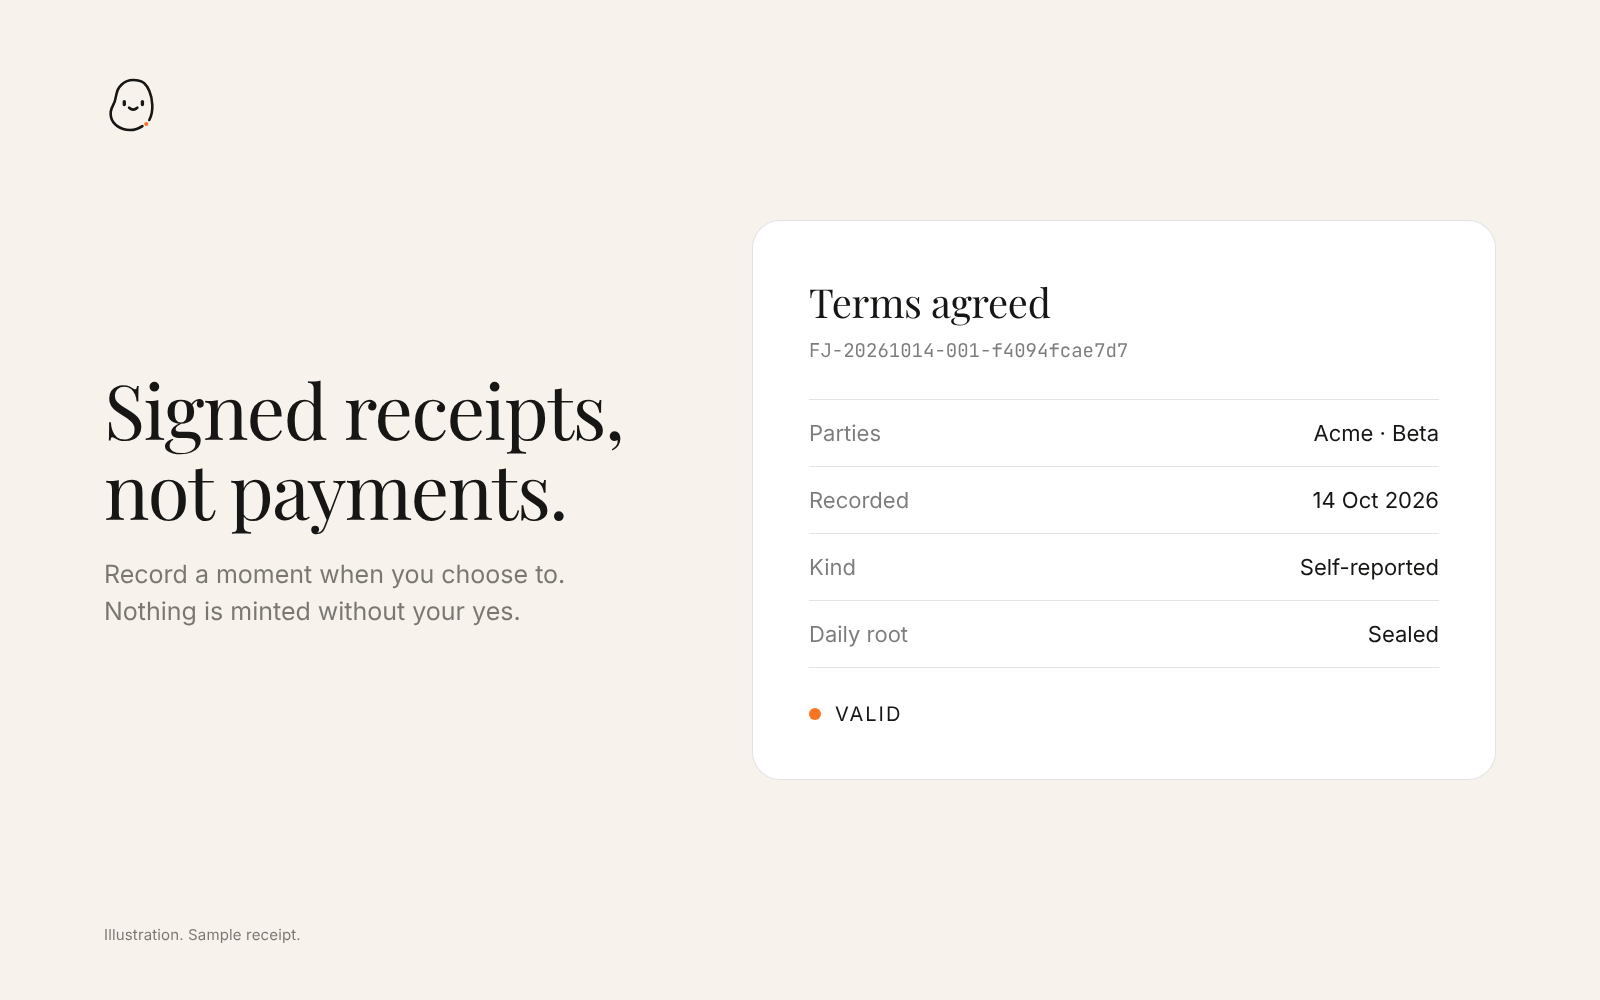
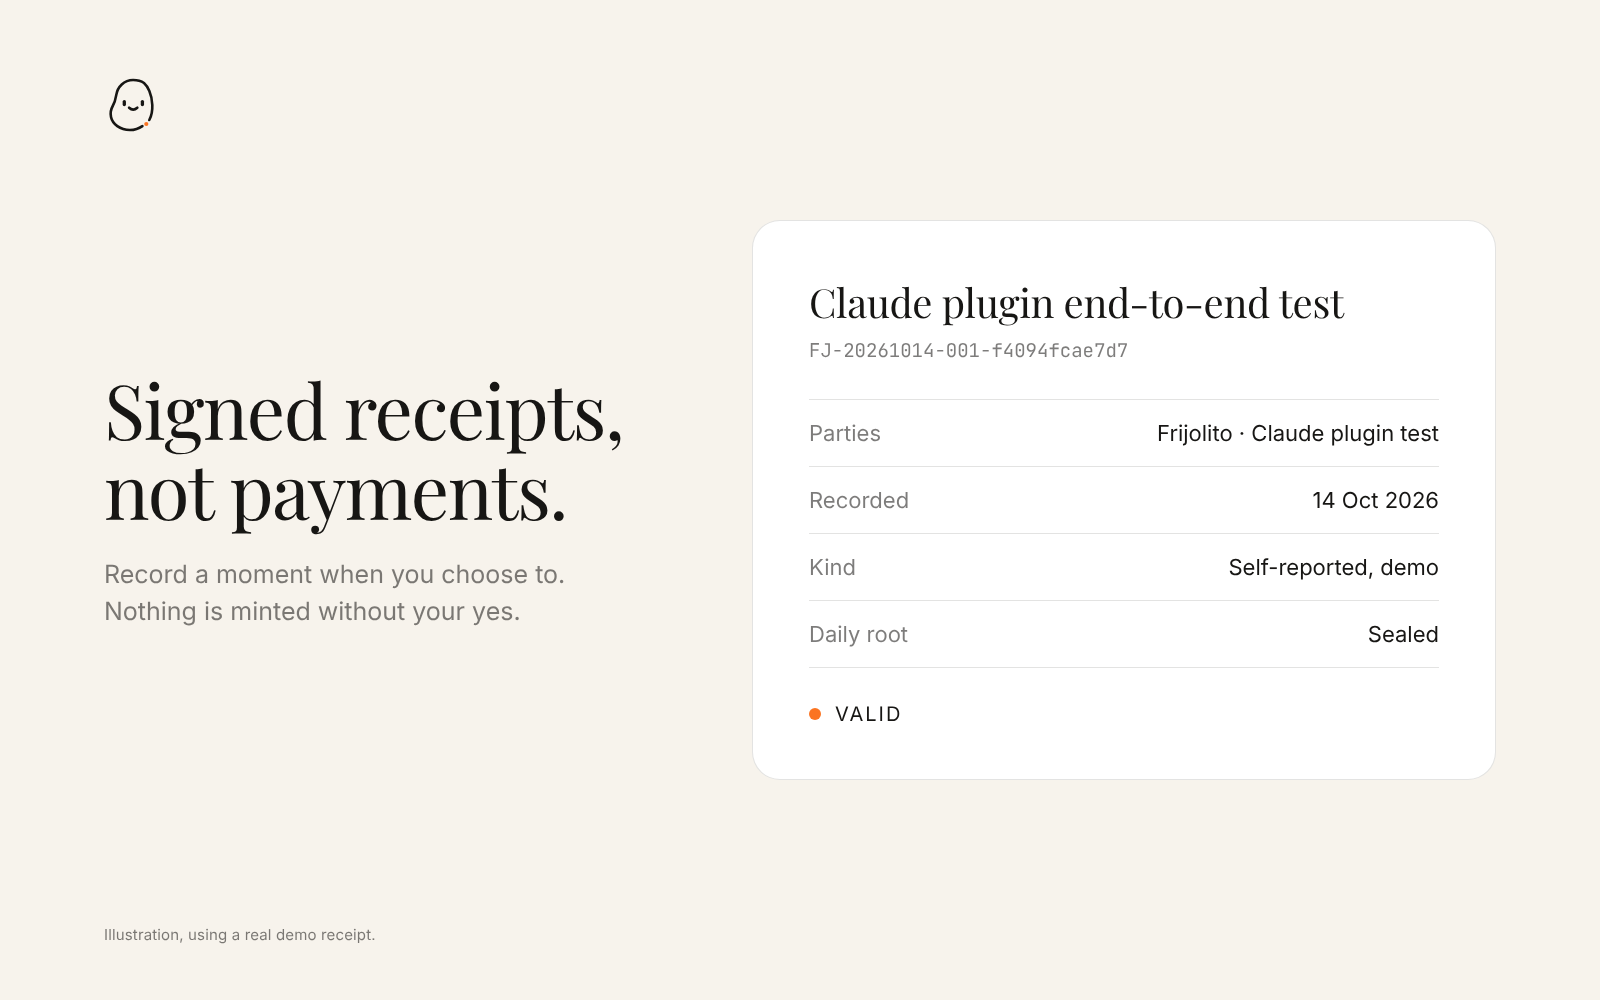
Listing images show the real demo receipt; hook key only goes over https
The sample receipt ID resolves to a real demo receipt, so the images now
show its own label, parties and kind instead of invented ones. The hook
script refuses a base URL that is not https (or this machine, for tests).

Claude-Session: https://claude.ai/code/session_01LbXB6P3xCAoHVUHtBfQp1M

diff --git a/plugins/frijolito/assets/listing/listing.html b/plugins/frijolito/assets/listing/listing.html
@@ -65,9 +65,9 @@
   <div class="term">
     <div class="cmd"><b>/frijolito:verify</b> FJ-20261014-001-f4094fcae7d7</div>
     <div class="ok"><i></i>VALID</div>
-    <div class="say">The record is intact and Frijolito issued it. It is self-reported: it proves what was recorded, by whom and when.</div>
+    <div class="say">The record is intact and Frijolito issued it. It is a self-reported demo receipt: it proves what was recorded, by whom and when.</div>
   </div>
-  <p class="note">Illustration. Sample receipt ID.</p>
+  <p class="note">Illustration, using a real demo receipt.</p>
 </section>
 
 <section class="scene" id="receipt">
@@ -77,17 +77,17 @@
     <p class="sub">Record a moment when you choose to. Nothing is minted without your yes.</p>
   </div>
   <div class="card">
-    <h2>Terms agreed</h2>
+    <h2>Claude plugin end-to-end test</h2>
     <div class="id">FJ-20261014-001-f4094fcae7d7</div>
     <div class="rows">
-      <div class="row"><span>Parties</span><span>Acme · Beta</span></div>
+      <div class="row"><span>Parties</span><span>Frijolito · Claude plugin test</span></div>
       <div class="row"><span>Recorded</span><span>14 Oct 2026</span></div>
-      <div class="row"><span>Kind</span><span>Self-reported</span></div>
+      <div class="row"><span>Kind</span><span>Self-reported, demo</span></div>
       <div class="row"><span>Daily root</span><span>Sealed</span></div>
     </div>
     <div class="seal"><i></i>VALID</div>
   </div>
-  <p class="note">Illustration. Sample receipt.</p>
+  <p class="note">Illustration, using a real demo receipt.</p>
 </section>
 <script>document.getElementById(new URLSearchParams(location.search).get('s')||'ask').classList.add('on')</script>
 </body>

diff --git a/plugins/frijolito/tests/test_hooks.py b/plugins/frijolito/tests/test_hooks.py
@@ -93,6 +93,12 @@ class HookTest(unittest.TestCase):
         done = self.run_hook("nonsense")
         self.assertEqual((done.returncode, done.stdout), (0, b""))
 
+    def test_key_is_not_sent_over_plain_http_to_another_host(self):
+        for base in ("http://example.invalid", "ftp://127.0.0.1", self.base.replace("127.0.0.1", "0.0.0.0")):
+            done = self.run_hook("gate", base=base)
+            self.assertEqual((done.returncode, done.stdout, done.stderr), (0, b"", b""), base)
+        self.assertEqual(Handler.calls, [])
+
     def test_key_never_appears_in_output(self):
         Handler.reply = (401, "bad key fjh_test_abc")
         done = self.run_hook("gate")

diff --git a/plugins/frijolito/hooks/hook_receipt.py b/plugins/frijolito/hooks/hook_receipt.py
@@ -36,6 +36,11 @@ def hook_key():
     return ""
 
 
+def base_url_ok(url):
+    """The key only ever goes over https, or to this machine for tests."""
+    return url.startswith("https://") or url.startswith(("http://127.0.0.1:", "http://localhost:"))
+
+
 def gate_output(body):
     """Pass on only the receipt note. A permission decision is never relayed."""
     try:
@@ -50,7 +55,7 @@ def gate_output(body):
 def main(argv):
     mode = argv[1] if len(argv) > 1 else ""
     key = hook_key()
-    if mode not in ENDPOINTS or not key:
+    if mode not in ENDPOINTS or not key or not base_url_ok(BASE_URL):
         return 0
     try:
         event = sys.stdin.buffer.read()

diff --git a/plugins/frijolito/LISTING.md b/plugins/frijolito/LISTING.md
@@ -29,7 +29,7 @@ Frijolito keeps signed receipts, not payments. No money moves through this plugi
 
 ## Images
 
-1600 × 1000, in `assets/listing/`. They are illustrations with sample data, and each one says so.
+1600 × 1000, in `assets/listing/`. They are illustrations, and each one says so. The receipt shown is a real demo receipt, `FJ-20261014-001-f4094fcae7d7`, with its own parties, label and date, so anyone can verify it.
 
 1. `1-ask.png`: Ask Frijolito, right where you work.
 2. `2-verify.png`: Check any receipt in one line.
